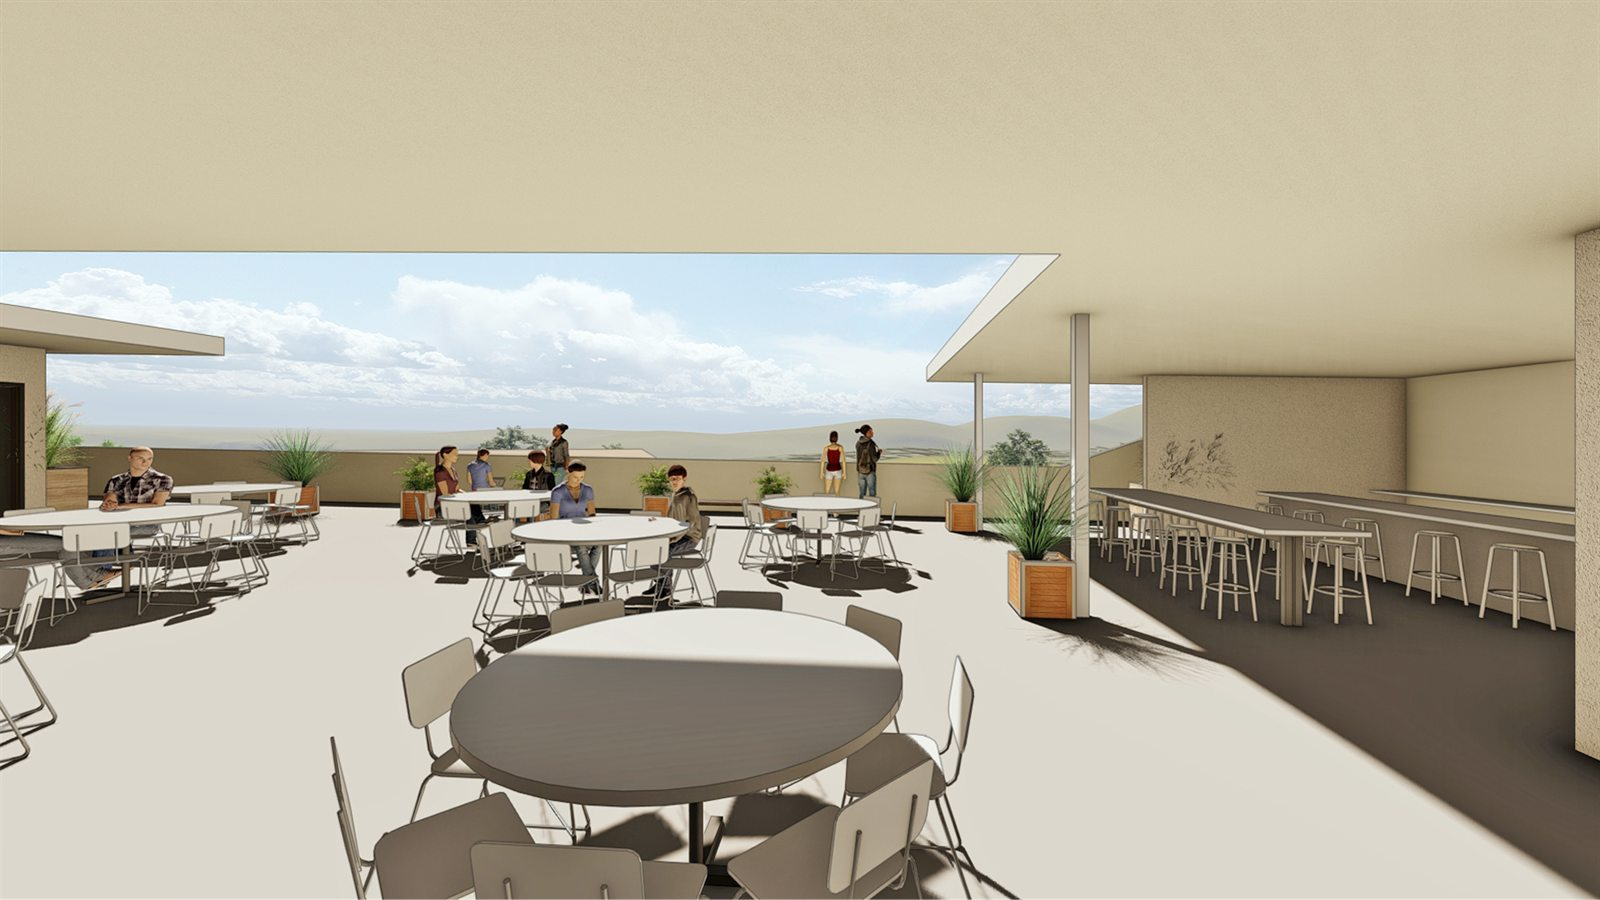
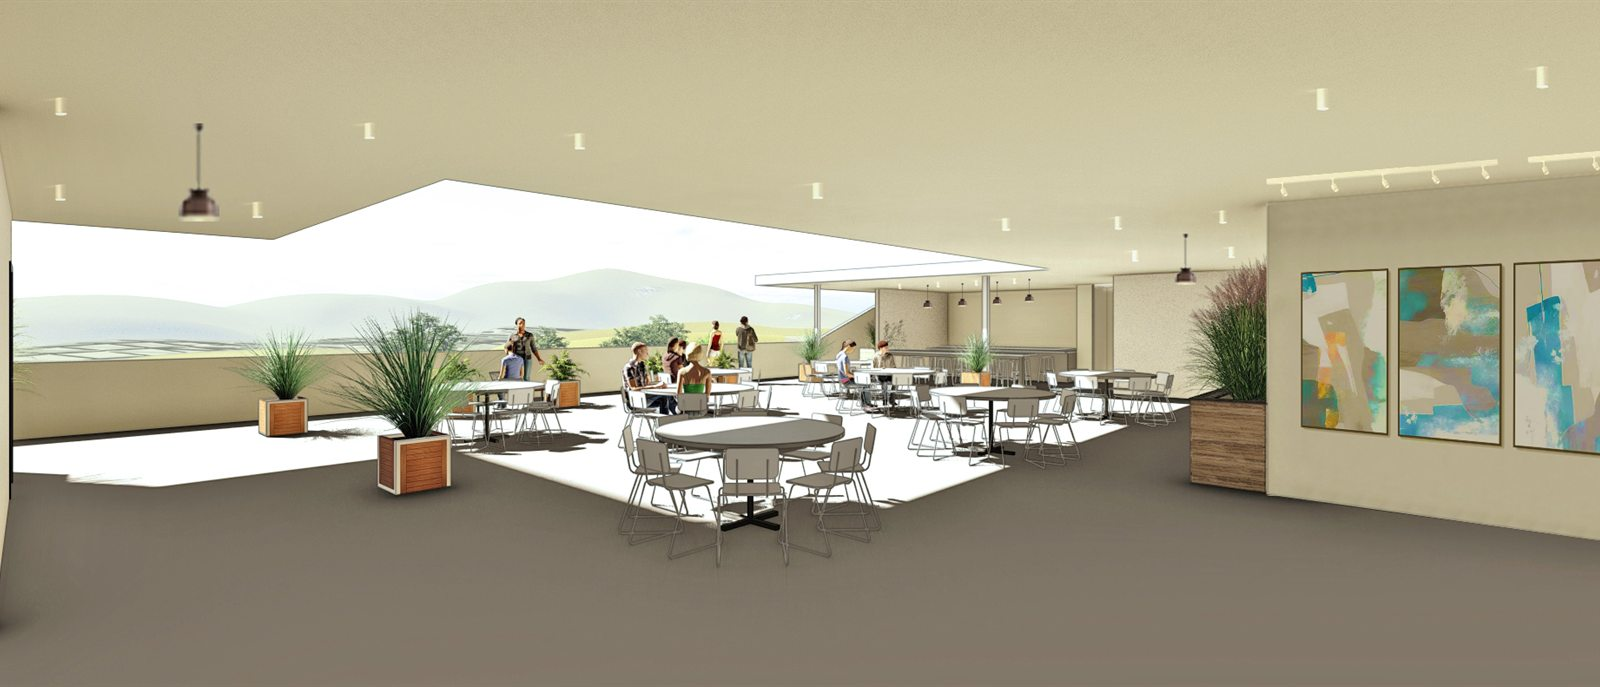
Fix the rooftop pair: photo17 is the matching frame, not photo18
photo17 is 2.36:1 against the AI output's 2.33:1, so the two overlay and
the pair works as a slider like the rest of the gallery. photo18 was a
1.78:1 frame of the same terrace, which is why it would not line up.

diff --git a/redline/index.html b/redline/index.html
@@ -219,11 +219,6 @@
     flex-wrap:wrap;margin-bottom:14px}
   .galhead h3{font-size:clamp(19px,2vw,26px)}
   .galhead span{font-size:11px;letter-spacing:.14em;text-transform:uppercase;color:var(--muted)}
-  /* stacked pair, for when the model hands back a different aspect than it was given */
-  .stack{display:grid;gap:14px}
-  .stack figure{position:relative}
-  .stack figcaption{position:absolute;left:0;bottom:0;font-size:10px;letter-spacing:.15em;
-    text-transform:uppercase;color:var(--ink);background:rgba(255,255,255,.88);padding:6px 10px}
 
   /* ---------- download ---------- */
   .tracks{display:grid;grid-template-columns:minmax(0,1.1fr) minmax(0,0.9fr);gap:16px;
@@ -509,23 +504,20 @@ of the frame stays as close to unchanged as possible.
   </div>
 
   <div class="galitem">
-    <div class="galhead rv"><h3>Rooftop terrace, overlooking the valley</h3><span>Before and after</span></div>
-    <div class="stack">
-      <figure class="shot rv">
-        <img src="/redline/img/sma-rooftop-before.jpg" width="1600" height="900" loading="lazy"
-             alt="Grey-model rooftop terrace: flat beige soffit and floor, untextured white tables and stools, washed-out hills beyond the parapet." />
-        <figcaption>Grey model</figcaption>
-      </figure>
-      <figure class="shot rv">
-        <img src="/redline/img/sma-rooftop-after.jpg" width="1600" height="687" loading="lazy"
-             alt="The same rooftop terrace redlined: large-format concrete pavers, oak tables and chairs, planted grasses, track-lit artwork and the real Ashland hills beyond." />
-        <figcaption>Redlined</figcaption>
-      </figure>
+    <div class="galhead rv"><h3>Rooftop terrace, overlooking the valley</h3><span>Drag to compare</span></div>
+    <div class="cmp rv" style="aspect-ratio:1600/687">
+      <img src="/redline/img/sma-rooftop-before.jpg" width="1600" height="687" loading="lazy"
+           alt="Grey-model rooftop terrace: flat beige soffit and floor, untextured white tables and stools, blown-out sky and washed-out hills beyond the parapet." />
+      <img class="after" src="/redline/img/sma-rooftop-after.jpg" width="1600" height="687" loading="lazy"
+           alt="The same rooftop terrace redlined: large-format concrete pavers, oak tables and chairs, planted grasses, track-lit artwork and the real Ashland hills beyond." />
+      <span class="bar" aria-hidden="true"></span><span class="knob" aria-hidden="true"></span>
+      <span class="tag l">Grey model</span><span class="tag r">Redlined</span>
+      <input type="range" min="0" max="100" value="50" step="0.5"
+             aria-label="Rooftop terrace: reveal the redlined render." />
     </div>
-    <p class="cap">Stacked rather than a slider on purpose. The model returned its own frame,
-      wider and shorter than the render it was given, so the two do not overlay. This is the
-      output-dimension trap: check the aspect that comes back before you build a board around
-      it, and keep the raw render as the master.</p>
+    <p class="cap">Paving, furniture, planting and sky all change. The model also nudged the
+      framing a few percent, which is why the soffit line steps very slightly at the seam.
+      Check the aspect and the framing that come back before you build a board around them.</p>
   </div>
 </section>
 </div>
